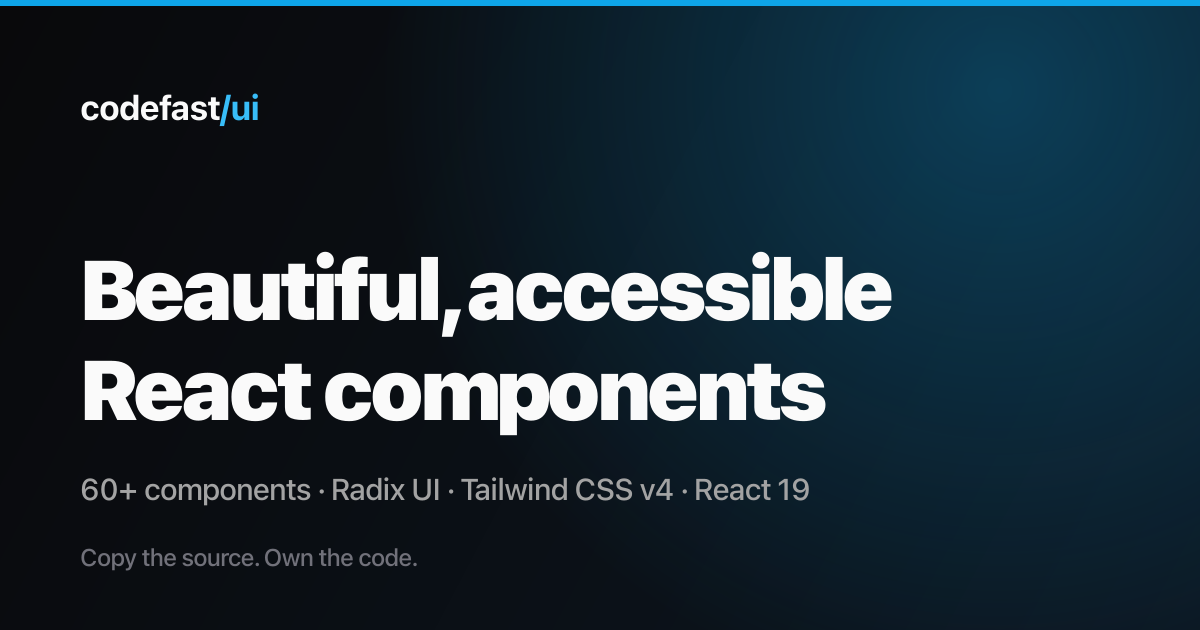
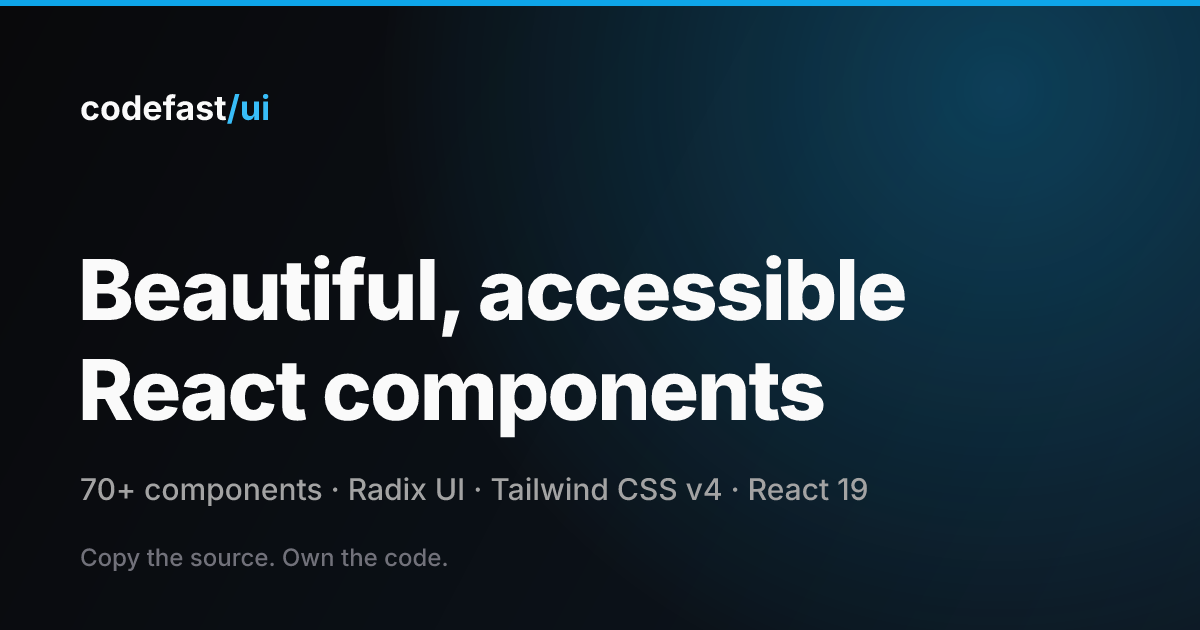
feat(ui): generate the og image from the registry component count

diff --git a/apps/ui/scripts/generate-og-image.ts b/apps/ui/scripts/generate-og-image.ts
@@ -1,0 +1,57 @@
+/**
+ * Regenerate the OG link-preview image from the component registry.
+ *
+ * Counts `src/registry/<slug>/meta.ts` — the same population behind the site's
+ * `COMPONENTS.length` — rewrites the "NN+" count in `public/og-image.svg`, and renders
+ * `public/og-image.png` (1200x630) with resvg using vendored Inter TTFs for deterministic output.
+ *
+ * Run with `pnpm --filter @apps/ui generate:og` after adding or removing components.
+ */
+
+import { existsSync, readFileSync, readdirSync, writeFileSync } from "node:fs";
+import { createRequire } from "node:module";
+import { join } from "node:path";
+import { fileURLToPath } from "node:url";
+
+import { Resvg } from "@resvg/resvg-js";
+
+const appRoot = fileURLToPath(new URL("..", import.meta.url));
+const svgPath = join(appRoot, "public/og-image.svg");
+const pngPath = join(appRoot, "public/og-image.png");
+
+const registryDir = join(appRoot, "src/registry");
+const componentCount = readdirSync(registryDir, { withFileTypes: true }).filter(
+  (entry) => entry.isDirectory() && existsSync(join(registryDir, entry.name, "meta.ts")),
+).length;
+const countLabel = `${componentCount}+`;
+
+const svg = readFileSync(svgPath, "utf8");
+
+if (!/\d+\+ components/.test(svg)) {
+  throw new Error(`No "NN+ components" text found in ${svgPath} — was the sub line reworded?`);
+}
+
+const patchedSvg = svg.replace(/\d+\+ components/, `${countLabel} components`);
+
+if (patchedSvg !== svg) {
+  writeFileSync(svgPath, patchedSvg);
+}
+
+// The SVG declares "Inter" first in its font stack; only these files are loaded, so the render is identical on every machine.
+const require = createRequire(import.meta.url);
+const image = new Resvg(patchedSvg, {
+  font: {
+    loadSystemFonts: false,
+    defaultFontFamily: "Inter",
+    fontFiles: [
+      require.resolve("@expo-google-fonts/inter/500Medium/Inter_500Medium.ttf"),
+      require.resolve("@expo-google-fonts/inter/700Bold/Inter_700Bold.ttf"),
+      require.resolve("@expo-google-fonts/inter/800ExtraBold/Inter_800ExtraBold.ttf"),
+    ],
+  },
+}).render();
+
+writeFileSync(pngPath, image.asPng());
+console.log(
+  `og-image: ${componentCount} registry components -> "${countLabel} components", rendered ${image.width}x${image.height} png`,
+);